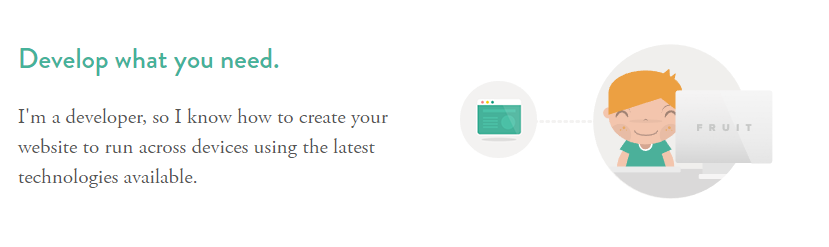
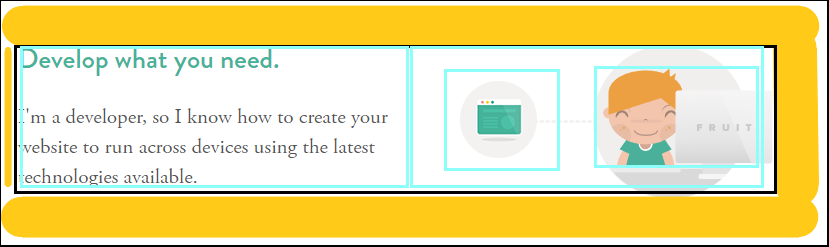
Develop what you need

diff --git a/scripts/script.js b/scripts/script.js
@@ -1,23 +1,39 @@
-var count = 0;
-var timeoutID;
-var intervalID;
+var count1 = 0;
+var count2= 0;
+var intervalID1;
+var intervalID2;
 function removeClasses(sprintElement){
 	if(!!sprintElement && sprintElement.classList.contains('circleNext'))
 			sprintElement.classList.remove('circleNext');
 	if(!!sprintElement && sprintElement.classList.contains('circleAnother'))
 			sprintElement.classList.remove('circleAnother');
 }
-function changeSprintPosition(){
-	var sprintElement = document.getElementById('circleSprint');
-	removeClasses(sprintElement);
-	 if(count == 1 && !!sprintElement){
-		sprintElement.classList.add('circleNext');
-	}else if(count == 2 && !!sprintElement){
-		sprintElement.classList.add('circleAnother');
-	}else if(count == 3 && !!sprintElement){
-		sprintElement.classList.add('circleNext');
+function changeSprint1Position(){
+	var sprint1Element = document.getElementById('circleSprint1');
+	removeClasses(sprint1Element);
+	 if(count1 == 1 && !!sprint1Element){
+		sprint1Element.classList.add('circleNext');
+	}else if(count1 == 2 && !!sprint1Element){
+		sprint1Element.classList.add('circleAnother');
+	}else if(count1 == 3 && !!sprint1Element){
+		sprint1Element.classList.add('circleNext');
 	}
-	count = (count + 1) % 4;
+	count1 = (count1 + 1) % 4;
+	
+
+};
+
+function changeSprint2Position(){
+	var sprint2Element = document.getElementById('circleSprint2');
+	removeClasses(sprint2Element);
+	 if(count2 == 1 && !!sprint2Element){
+		sprint2Element.classList.add('circleNext');
+	}else if(count2 == 2 && !!sprint2Element){
+		sprint2Element.classList.add('circleAnother');
+	}else if(count2 == 3 && !!sprint2Element){
+		sprint2Element.classList.add('circleNext');
+	}
+	count2 = (count2 + 1) % 4;
 	
 
 };
@@ -41,7 +57,8 @@ function init(){
 
 	});
 
-	intervalID = window.setInterval(changeSprintPosition,3000);
+	intervalID1 = window.setInterval(changeSprint1Position,3000);
+	intervalID2 = window.setInterval(changeSprint2Position,3000);
 }
 
 window.onload = init();

diff --git a/index.html b/index.html
@@ -111,7 +111,7 @@
 									<img src="./assets/img/ui/line-bg.png" class="img-responsive">
 									<img src="./assets/img/ui/line-bg.png" class="img-responsive">
 								</div>	
-								<div class="circle col-lg-7" id="circleSprint">
+								<div class="circle col-lg-7" id="circleSprint1">
 							
 								</div>
 							</div>
@@ -119,7 +119,16 @@
 								<h3>Design what you want.</h3>
 								<span class="seanText">I like to keep it simple. My goals are to focus on typography, content and conveying the message that you want to send.</span>
 							</div>
-											
+					</div>
+					<div class="row whatCanIDo m0">
+						<div class="col-lg-7 text">
+							<h3>Develop what you need.</h3>
+							<span class="seanText">I'm a developer, so I know how to create your website to run across devices using the latest technologies available.</span>
+						</div>
+						<div class="col-lg-5 image">
+							<div class="circle sprint2 col-lg-6" id="circleSprint2"></div>
+							<div class="main-content-image clip-circle-big m0 col-lg-6"></div>
+						</div>
 					</div>
 					
 				</div>

diff --git a/styles/style.css b/styles/style.css
@@ -310,6 +310,20 @@ h3{
 .whatCanIDo .dots img{	
 	margin-right: -8px;
 }
+
+/*What can i do section 2*/
+.whatCanIDo .text, .whatCanIDo .image{
+	outline: solid;
+}
+.whatCanIDo .text{
+	margin: 5% 0;
+}
+
+.sprint2{
+	background-image: url('../assets/img/content/home/what-i-do/dev-icons-vert.png') !important;
+	background-repeat: no-repeat;
+	margin: 75px 0;
+}
 /*Mobile*/
 @media (max-width: 767px){
 	.nav li a{
